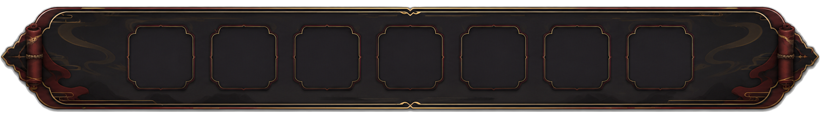
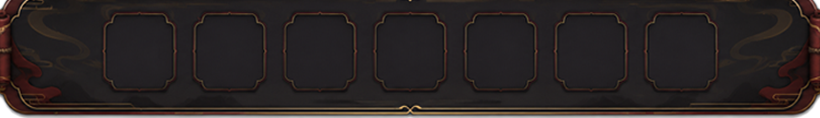
asseы

diff --git a/docs/ASSET_FOLDERS.md b/docs/ASSET_FOLDERS.md
@@ -214,12 +214,17 @@ A decorative layer placed behind all StageNavigator buttons and labels. It is 82
 
 Layout reference:
 - Designed for 720×1600 base resolution.
-- 50px horizontal bleed on each side.
+- 50px horizontal bleed on each side beyond the viewport edges.
 - 10px vertical bleed above and below StageNavigator.
 - StageNavigator logical area: 720×98.
 - Button row content width: 620px (7 × 80px + 6 × 10px gap).
 - 7 button slots, each 80×80.
 - Stage number labels are drawn by Godot, not baked into the texture.
+
+Sizing logic:
+- StageNavigator lives inside MainContent with ~48px side margins, so its own width is ~624px.
+- `_update_backdrop_rect()` reads viewport width at runtime and computes `horizontal_extra = (viewport_width + 100 - navigator_width) / 2`, ensuring the backdrop always spans from x=−50 to x=770 in screen space regardless of margin layout.
+- Called once deferred after `_add_backdrop()` and again on `NOTIFICATION_RESIZED`.
 
 Rules:
 - Rendered by `StageNavigationBackdrop` (`ImageSlot`) created in `StageNavigator._add_backdrop()`.

diff --git a/docs/ASSET_MAP.md b/docs/ASSET_MAP.md
@@ -212,7 +212,9 @@ Recommended size: **820×118 px** (50px bleed each side beyond the 720px viewpor
 
 Rendered by `StageNavigationBackdrop` (`ImageSlot`) in `StageNavigator._add_backdrop()` — added as first child of StageNavigator so it renders behind all buttons and labels. `mouse_filter = IGNORE`. Missing file falls back to transparent. Do not put important detail within ~50px of the left/right edges.
 
-Backdrop rect: x −50 to 770, y −10 to 108, size 820×118.
+Backdrop rect: x −50 to 770, y −10 to 108, size 820×118 (on 720px viewport).
+
+Sizing note: StageNavigator sits inside MainContent with ~48px side margins (~624px wide). `_update_backdrop_rect()` computes `horizontal_extra = (viewport_width + 100 − navigator_width) / 2` at runtime so the rect always reaches screen x=−50 and x=770, matching the BottomTabsBackdrop bleed pattern.
 
 ---
 